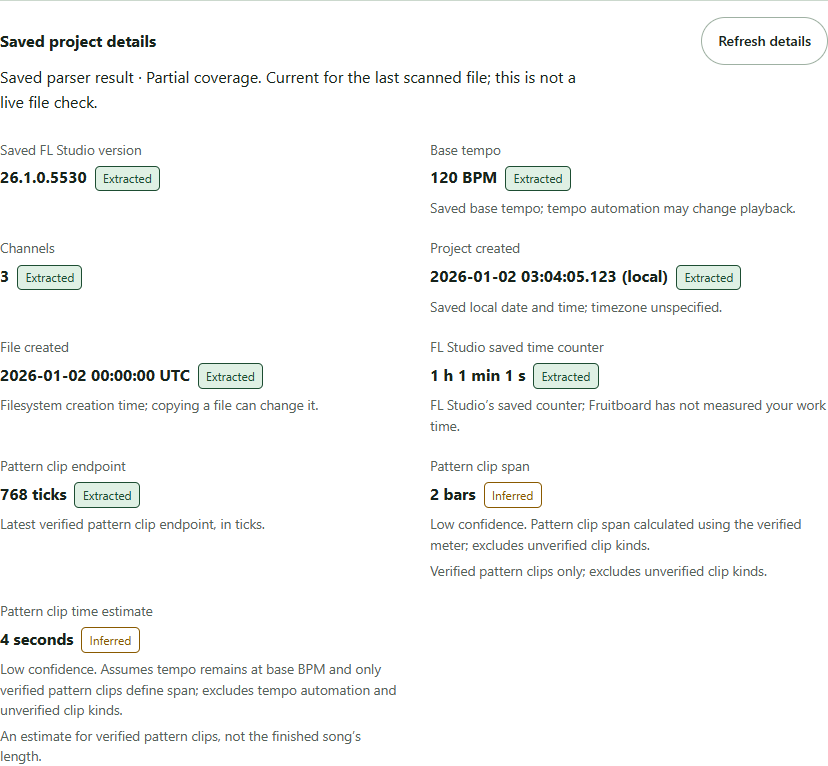
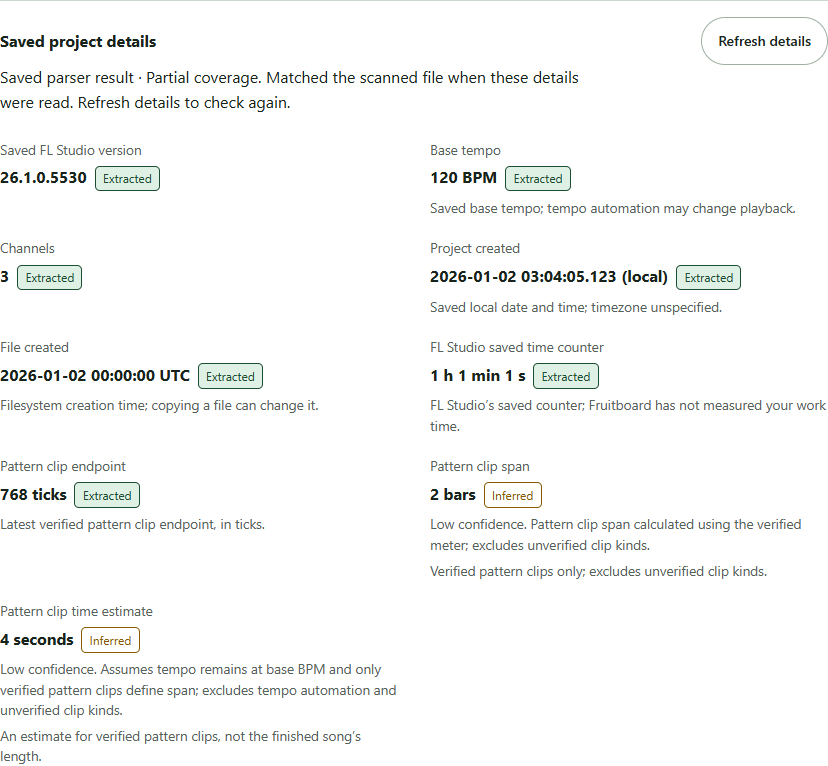
fix: clear saved details when the Library scan snapshot changes

Changed region(s): [[0.0, 0.0901, 0.6944, 0.1501]]

diff --git a/apps/client/src/library/ProjectDetailsPanel.test.tsx b/apps/client/src/library/ProjectDetailsPanel.test.tsx
@@ -23,6 +23,73 @@ const record: PublishedFileLocation = {
 };
 
 describe("Project details panel", () => {
+  it("clears details on a new scan snapshot even when displayed file attributes are identical", async () => {
+    const user = userEvent.setup();
+    const root: ScanRoot = {
+      id: identity.rootId,
+      displayName: "Projects",
+      canonicalPath: record.rootCanonicalPath,
+      mode: "localNtfs",
+      enabled: true,
+      availability: "available",
+      lastErrorCode: null,
+    };
+    let generation = 1;
+    let finish!: (details: ProjectDetails) => void;
+    const read = vi
+      .fn()
+      .mockResolvedValueOnce(savedDetails())
+      .mockImplementationOnce(
+        () =>
+          new Promise<ProjectDetails>((resolve) => {
+            finish = resolve;
+          }),
+      );
+    const adapter = {
+      ...createFakeLibraryScanAdapter({ roots: [root], files: [record] }),
+      getLibraryPage: () =>
+        Promise.resolve({
+          rootId: identity.rootId,
+          snapshotId: `snapshot-${generation}`,
+          records: [record],
+          nextCursor: null,
+        }),
+      getProjectDetails: read,
+    };
+    render(
+      <MemoryRouter>
+        <LibraryPage adapter={adapter} />
+      </MemoryRouter>,
+    );
+    await user.click(
+      await screen.findByRole("button", {
+        name: "Project details Example.flp",
+      }),
+    );
+    await screen.findByText("120 BPM");
+    await user.click(
+      screen.getByRole("button", {
+        name: "Refresh project details Example.flp",
+      }),
+    );
+    await screen.findByText("Loading saved project details…");
+    generation = 2;
+    act(() => {
+      window.dispatchEvent(new Event("focus"));
+    });
+    await waitFor(() =>
+      expect(
+        screen
+          .getByRole("button", { name: "Project details Example.flp" })
+          .getAttribute("aria-expanded"),
+      ).toBe("false"),
+    );
+    await act(async () => {
+      finish(savedDetails());
+      await Promise.resolve();
+    });
+    expect(screen.queryByText("120 BPM")).toBeNull();
+  });
   it("clears displayed facts when the selected root becomes disabled", async () => {
     const user = userEvent.setup();
     const root: ScanRoot = {

diff --git a/apps/client/src/library/LibraryPage.tsx b/apps/client/src/library/LibraryPage.tsx
@@ -1260,6 +1260,7 @@ function ConnectedLibraryPage({
             {page.records.map((record) => (
               <LibraryRecord
                 adapter={adapter}
+                sourceSnapshotId={page.snapshotId}
                 sourceEligible={statuses.some(
                   (status) =>
                     status.root.id === record.rootId &&
@@ -1647,11 +1648,13 @@ function ScanStatusCard({
 
 function LibraryRecord({
   adapter,
+  sourceSnapshotId,
   sourceEligible,
   duplicateDisplayNames,
   record,
 }: {
   readonly adapter: LibraryScanAdapter;
+  readonly sourceSnapshotId: string;
   readonly sourceEligible: boolean;
   readonly duplicateDisplayNames: ReadonlySet<string>;
   readonly record: PublishedFileLocation;
@@ -1698,6 +1701,7 @@ function LibraryRecord({
           record={record}
           sourceEligible={sourceEligible}
           key={JSON.stringify([
+            sourceSnapshotId,
             record.rootId,
             record.byteSize,
             record.modifiedAt,

diff --git a/apps/client/src/library/ProjectDetailsPanel.tsx b/apps/client/src/library/ProjectDetailsPanel.tsx
@@ -12,7 +12,7 @@ type State =
   | { readonly kind: "error" }
   | { readonly kind: "ready"; readonly details: ProjectDetails };
 
-/** Parent keys this component by row fingerprint; a changed row clears facts. */
+/** Parent keys by scan snapshot and row fingerprint; new results clear facts. */
 export function ProjectDetailsPanel({
   adapter,
   record,
@@ -134,8 +134,8 @@ export function ProjectDetailsPanel({
                   {state.details.outcome === "partial"
                     ? "Partial coverage"
                     : "Supported fields read"}
-                  . Current for the last scanned file; this is not a live file
-                  check.
+                  . Matched the scanned file when these details were read.
+                  Refresh details to check again.
                 </p>
                 <dl className="project-details__facts">
                   {state.details.facts.map((fact) => (

diff --git a/docs/review/library-project-details-240/README.md b/docs/review/library-project-details-240/README.md
@@ -16,8 +16,9 @@ clips, and the saved counter does not measure independently tracked work.
 
 Loading, unavailable-build, no-current-result and read-failure states explain
 what happened. Refresh details rechecks saved data without triggering parsing.
-Closing/unmounting ignores pending replies. Changed file/path fingerprints or
-disabled/unsupported roots clear the open panel and discard earlier requests.
+Closing/unmounting ignores pending replies. A new Library scan snapshot, changed
+file/path fingerprints or disabled/unsupported roots clear the open panel and
+discard earlier requests, including file replacement with identical attributes.
 Expansion and closure preserve keyboard focus.
 
 ## Native and privacy boundary
@@ -86,11 +87,11 @@ invoked and passed against the independent installed snapshot copy; the
 262,144-byte database retained its SHA-256 before/after. Rendered desktop/narrow
 states, keyboard, reduced motion, 200% text and contrast/accessibility passed.
 All 12 approved FLP byte hashes and corpus Git objects match the baseline.
-A final test change exercises row invalidation and a late reply through the
-actual Library page instead of assigning a component key directly. The full
-client suite then passed 179 tests, lint and typecheck. Application/native/bundle
-inputs are unchanged from the compiled implementation; only tests and review
-Markdown differ. The normal final-head CI remains required before owner merge.
+A final review added the Library scan snapshot to the detail-panel fence so a
+replacement with identical displayed attributes also clears prior facts and
+replies. The actual Library page tests cover both changed fingerprints and new
+scan snapshots. Updated application validation and final-head CI are required
+before owner merge.
 
 ## Limits and handoff
 

diff --git a/FLP_PARSER.md b/FLP_PARSER.md
@@ -295,9 +295,10 @@ Large integer values remain decimal strings. Missing, changed, detached,
 disabled and not-yet-analyzed sources return no current details; default builds
 report details unavailable. Expanding/refreshing does not trigger parsing.
 
-Facts describe a saved result current for the last native scan/read, not a live
-file check. Changed row fingerprints and disabled/unsupported roots clear the
-open panel; Refresh details rechecks authority and freshness. Negative parse
+Facts describe a saved result that matched the scanned file when read, not a
+live file check. New Library scan snapshots, changed row fingerprints and
+disabled/unsupported roots clear the open panel, including replacements that
+retain size/time/path. Refresh details rechecks authority and freshness. Negative parse
 attempts preserve a still-current last good result. Channel/plugin/sample name
 lists, history and retry controls remain deferred. See the
 [review packet](docs/review/library-project-details-240/README.md).
